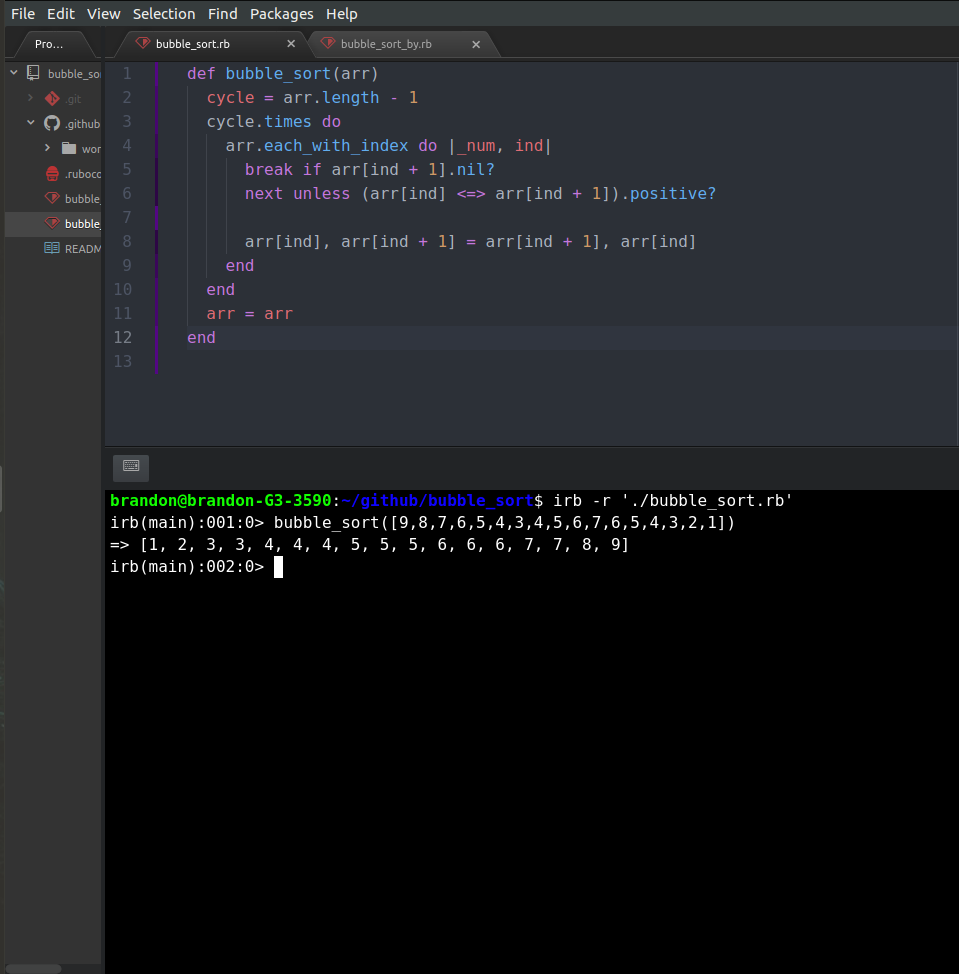
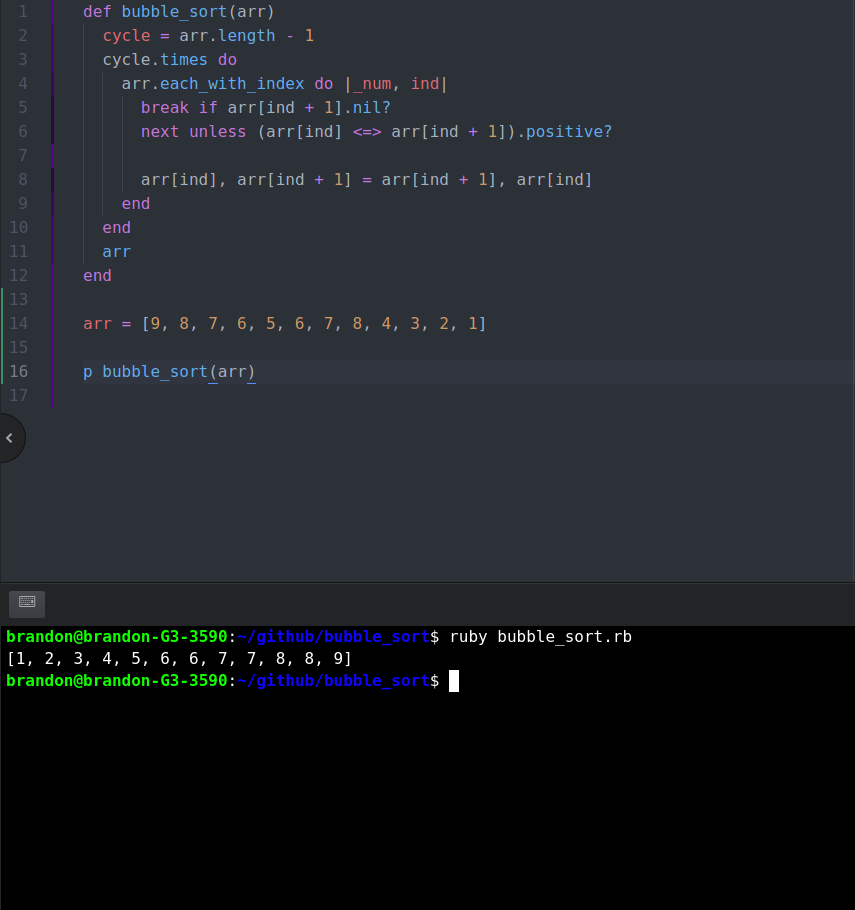
Update screenshots

diff --git a/bubble_sort.rb b/bubble_sort.rb
@@ -10,3 +10,7 @@ def bubble_sort(arr)
   end
   arr
 end
+
+arr = [9, 8, 7, 6, 5, 6, 7, 8, 4, 3, 2, 1]
+
+p bubble_sort(arr)
